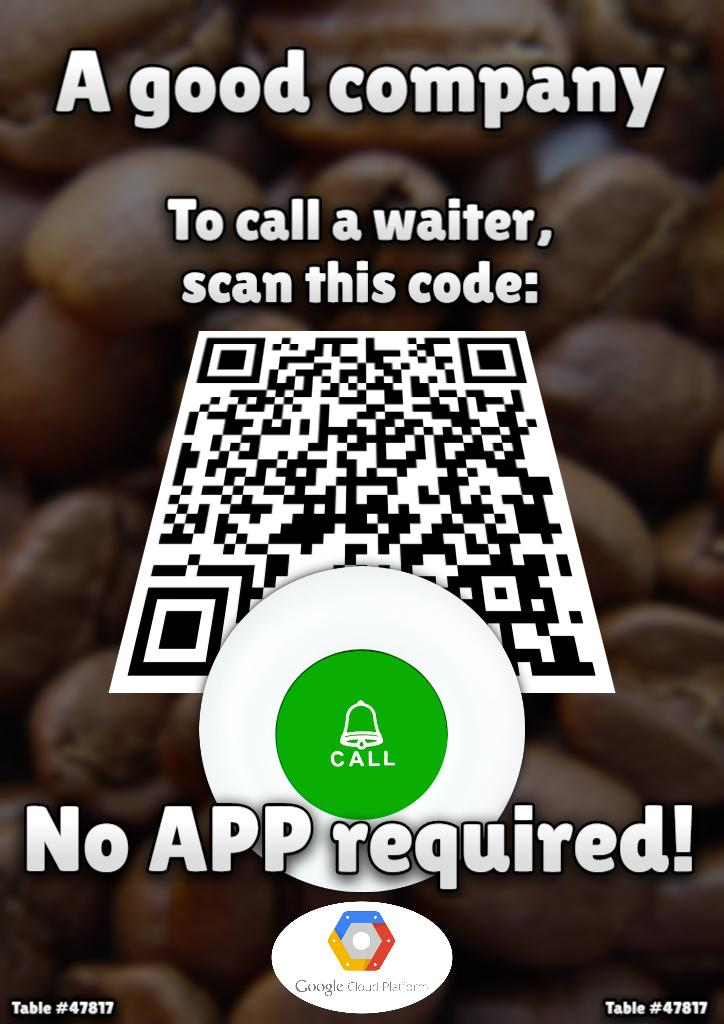
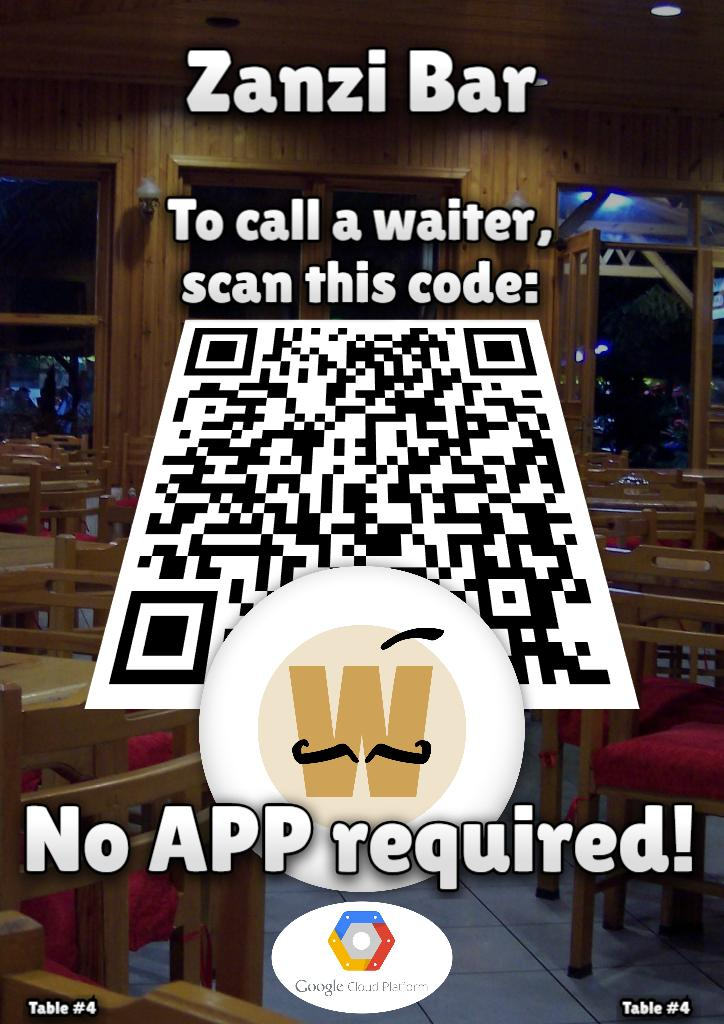
Website: updated pictures examples

diff --git a/tools/website/index.html b/tools/website/index.html
@@ -6,7 +6,7 @@
 	<meta http-equiv="X-UA-Compatible" content="IE=edge">
 	<meta name="description"
 	      content="Restaurant, Service Optimization, QR Code, QR Reader, Restaurant Service, Waiter Call System">
-	<meta name="viewport" content="width=device-width, initial-scale=1, maximum-scale=1, user-scalable=no">
+	<meta name="viewport" content="width=device-width, initial-scale=1, maximum-scale=4, user-scalable=yes">
 	<!--jq-->
 	<script src="bootstrap-3.3.4-dist/js/jquery.js"></script>
 	<script src="scripts/cookiebar.js"></script>
@@ -78,11 +78,6 @@
 </div>
 <div id="cont" style="display: none">
 	<pg>
-		<button style="font-size: 1.31em;font-weight: bold;
-									position: absolute;right: 1em;top:1em;"
-		        onclick="location.href='::manager-url::',this.innerHTML='Please wait...'"
-		        class="btn btn-success">Launch Manager!
-		</button>
 		<name>
 			<img src="pics/logo.svg" class="top-logo-svg">
 
@@ -90,6 +85,11 @@
 		</name>
 		<top-info>Introducing A New Way To Summon Waiters
 		</top-info>
+		<button
+			style="float:right;"
+			onclick="location.href='::manager-url::',this.innerHTML='Please wait...'"
+			class="btn btn-success top-mng-button">Launch Manager!
+		</button>
 
 
 		<remark>
@@ -223,7 +223,10 @@
 				<qr>4</qr>
 				<qr>5</qr>
 				<qr>6</qr>
+				&nbsp;<br>
 				This tool will be available after registration.
+				<img src="pics/indoor1.jpg" style="width:80%;" class="pic-qr">
+
 			</issue>
 		</panel>
 
@@ -247,22 +250,18 @@
 				<table class="table">
 					<!--table class="table table-striped"-->
 					<tr>
-						<td>Email:</td>
-						<td><a href="mailto:::email::">::email::</a></td>
+						<td>Email:<br>&nbsp;&nbsp;<a href="mailto:::email::">::email::</a></td>
 					</tr>
 					<tr>
-						<td>Phone:</td>
-						<td>+1 (888) 876-7038</td>
+						<td>Phone:<br>&nbsp;&nbsp;+1 (888) 876-7038</td>
 					</tr>
 					<tr>
-						<td>WhatsApp:</td>
-						<td>+972 (55) 97-11-570</td>
+						<td>WhatsApp:<br>&nbsp;&nbsp;+972 (55) 97-11-570</td>
 					</tr>
 					<tr>
-						<td>Address</td>
-						<td>
-							94 Yigal Alon St.<br>
-							Tel Aviv, Israel, 6789141
+						<td>Address<br>
+							&nbsp;&nbsp;94 Yigal Alon St.<br>
+							&nbsp;&nbsp;Tel Aviv, Israel, 6789141
 						</td>
 					</tr>
 				</table>

diff --git a/tools/website/styles/style.css b/tools/website/styles/style.css
@@ -250,6 +250,30 @@ a:hover {
     }
 }
 
+
+/*if less than*/
+@media (max-width: 768px) {
+    .top-mng-button {
+        font-size: 1.31em;
+        font-weight: bold;
+        position: relative;
+        margin-bottom: .4em;
+    }
+
+}
+
+/*if greater than*/
+@media (min-width: 768px) {
+    .top-mng-button {
+        font-size: 1.31em;
+        font-weight: bold;
+        position: absolute;
+        right: 1em;
+        top: 1em;
+    }
+}
+
+
 .pic {
     border: 1px solid #cbcbcb;
     border-radius: .5em;
